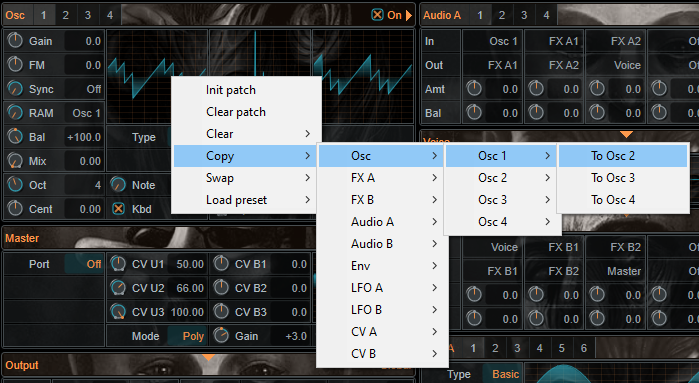
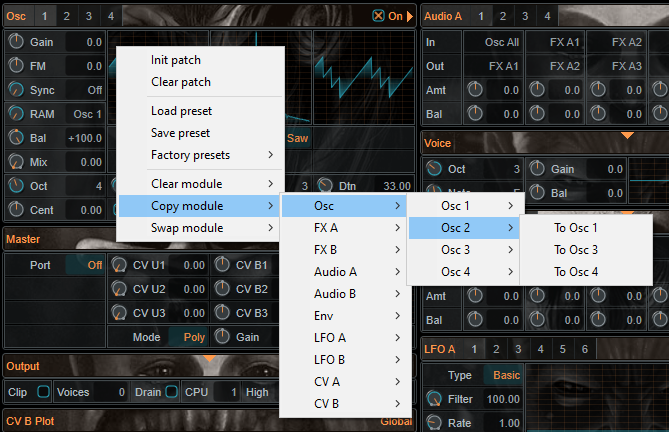
update manual

diff --git a/MANUAL.md b/MANUAL.md
@@ -86,11 +86,12 @@ However, individual components are either bandlimited or have options to reduce 
 Context menu opens by right-click or ctrl+left-click (not on a parameter, that pops up the host menu).\
 Alternatively, the context menu may be opened by keyboard combination ctrl+alt+shift+m.\
 \
-Select "Clear patch" to clear all settings.\
-Select "Init patch" to reset settings to factory default.\
-Select Load preset &gt; [preset name] to reset settings to a factory preset.\
-Select "Clear", "Copy", or "Swap" to edit the current module definition.\
-Please note that the associated routing (Audio bank/CV bank) is NOT updated.
+- Init patch resets settings to factory default.
+- Clear patch clears all settings except the bare minimum required to produce sound.
+- Save preset allows to save the current plugin state to disk (vstpreset file).
+- Load preset allows to load an existing preset from disk. Note: this will silently fail if the selected preset was made using another plugin. (This also goes for versioned/generic and instrument/fx builds of InfernalSynth).
+- Factory presets provides a couple of built-in patches.
+- Clear, copy and swap module may be used to update a particular module. Please note that the associated routing (Audio bank/CV bank) is NOT updated.
 
 ![Context menu](static/context_menu.png)
 
